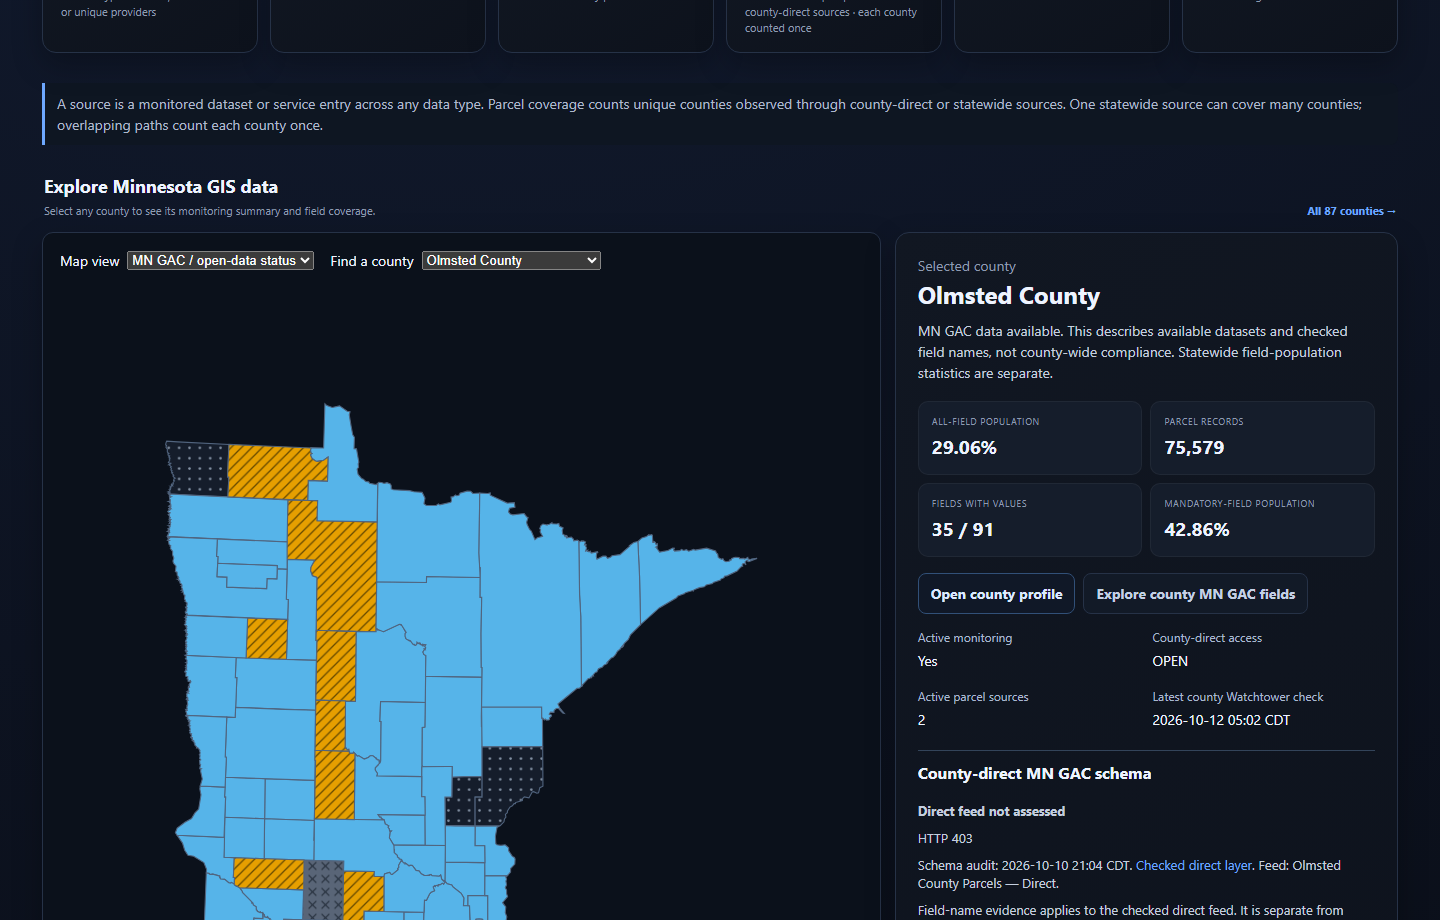
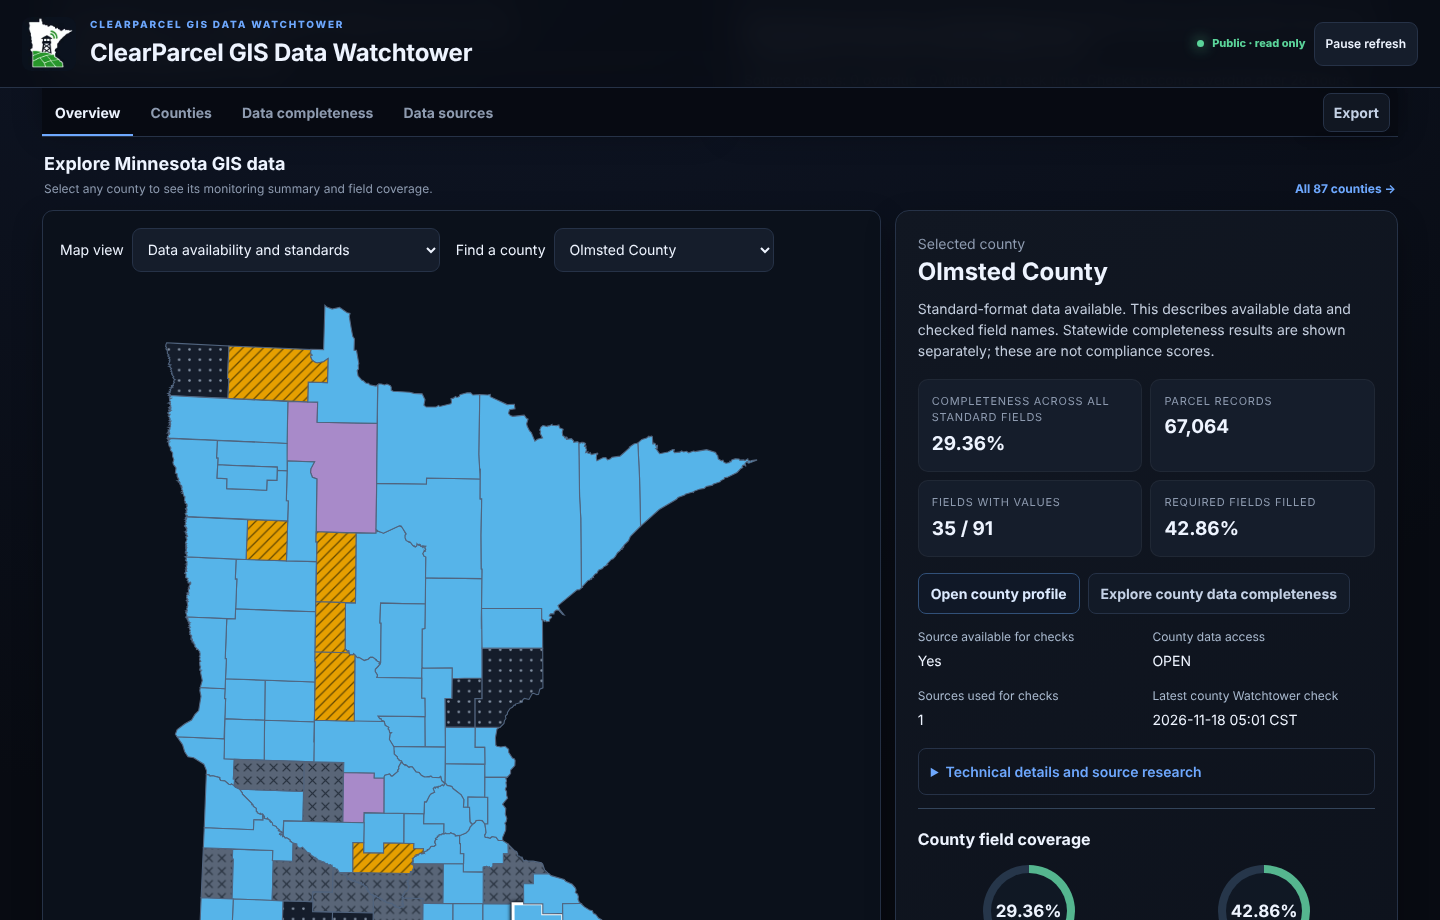
Refresh user-guide screenshots for v0.5.4 (#263)
Recapture the overview, county selection and data completeness screenshots
from the public dashboard running v0.5.4, archive the October 12 captures,
and tie the guide and README captions to the version. STATUS records the
new triage labels and the updated audit digest.

Claude-Session: https://claude.ai/code/session_01Sbx8fAHws5gxvTTMvXz72z

diff --git a/README.md b/README.md
@@ -44,7 +44,7 @@ reviewed direct links to bounded regular checks and their public results.
 
 ![Live Watchtower overview with source health, county coverage, and a Minnesota county map](docs/images/watchtower-overview.png)
 
-*Actual public dashboard, captured October 12, 2026. Counts, check times, and field-population percentages change as new observations arrive.*
+*Actual public dashboard (v0.5.4), captured November 18, 2026. Counts, check times, and field-population percentages change as new observations arrive.*
 
 ## What is Watchtower?
 
@@ -81,7 +81,7 @@ See the [illustrated public user guide](docs/user-guide.md) for step-by-step ins
 
 ![Live public dashboard with Olmsted County selected and separate monitoring and field-population evidence](docs/images/watchtower-county.png)
 
-*Illustrative county selection as of October 12, 2026. Direct-feed observations are not county-wide compliance findings.*
+*County selection on the public dashboard (v0.5.4), captured November 18, 2026. Direct-feed observations are not county-wide compliance findings.*
 
 ## Data, freshness, and responsible use
 

diff --git a/docs/current-status.md b/docs/current-status.md
@@ -2,7 +2,16 @@
 
 > Generated from the authoritative root [STATUS.md](../STATUS.md). Do not edit this file directly; run python scripts/sync_current_status.py.
 
-## Low-severity review cleanup — in review, not deployed
+## Repository housekeeping — in review
+
+Items R4 to R6 of the November 18 review. The three missing triage labels
+(`needs-triage`, `needs-info`, `ready-for-human`) now exist in the issue
+tracker, and the audit digest issue (#254) states the pilot and the
+November 18 review with links. The user guide and README screenshots were
+recaptured from the public dashboard running v0.5.4; the October 12 captures
+are archived under `docs/images/archive/2026-10-12/`.
+
+## Low-severity review cleanup — merged (#262), not deployed
 
 Findings 13, 16, 19, 20, 22, 23, 26, 27, 29 and 30 and repository item R2 of
 the November 18 review of `ff9f9a7`. The statewide export no longer fills a

diff --git a/STATUS.md b/STATUS.md
@@ -1,6 +1,15 @@
 # Project status
 
-## Low-severity review cleanup — in review, not deployed
+## Repository housekeeping — in review
+
+Items R4 to R6 of the November 18 review. The three missing triage labels
+(`needs-triage`, `needs-info`, `ready-for-human`) now exist in the issue
+tracker, and the audit digest issue (#254) states the pilot and the
+November 18 review with links. The user guide and README screenshots were
+recaptured from the public dashboard running v0.5.4; the October 12 captures
+are archived under `docs/images/archive/2026-10-12/`.
+
+## Low-severity review cleanup — merged (#262), not deployed
 
 Findings 13, 16, 19, 20, 22, 23, 26, 27, 29 and 30 and repository item R2 of
 the November 18 review of `ff9f9a7`. The statewide export no longer fills a

diff --git a/docs/user-guide.md b/docs/user-guide.md
@@ -4,7 +4,7 @@
 
 **Audience:** Minnesota county and municipal staff, GIS practitioners, researchers, and other people exploring publicly available geospatial data.
 
-**Screenshots:** Captured from the actual public dashboard on **October 12, 2026**. They predate the plain-language UI updates prepared in this branch. Navigation labels, source counts, timestamps, and measurements may differ.
+**Screenshots:** Captured from the public dashboard running **v0.5.4** on **November 18, 2026**. Source counts, timestamps and measurements change with each check. Earlier captures from October 12, 2026 are kept in [`images/archive/2026-10-12/`](images/archive/2026-10-12/) for reference.
 
 ## Before you begin
 
